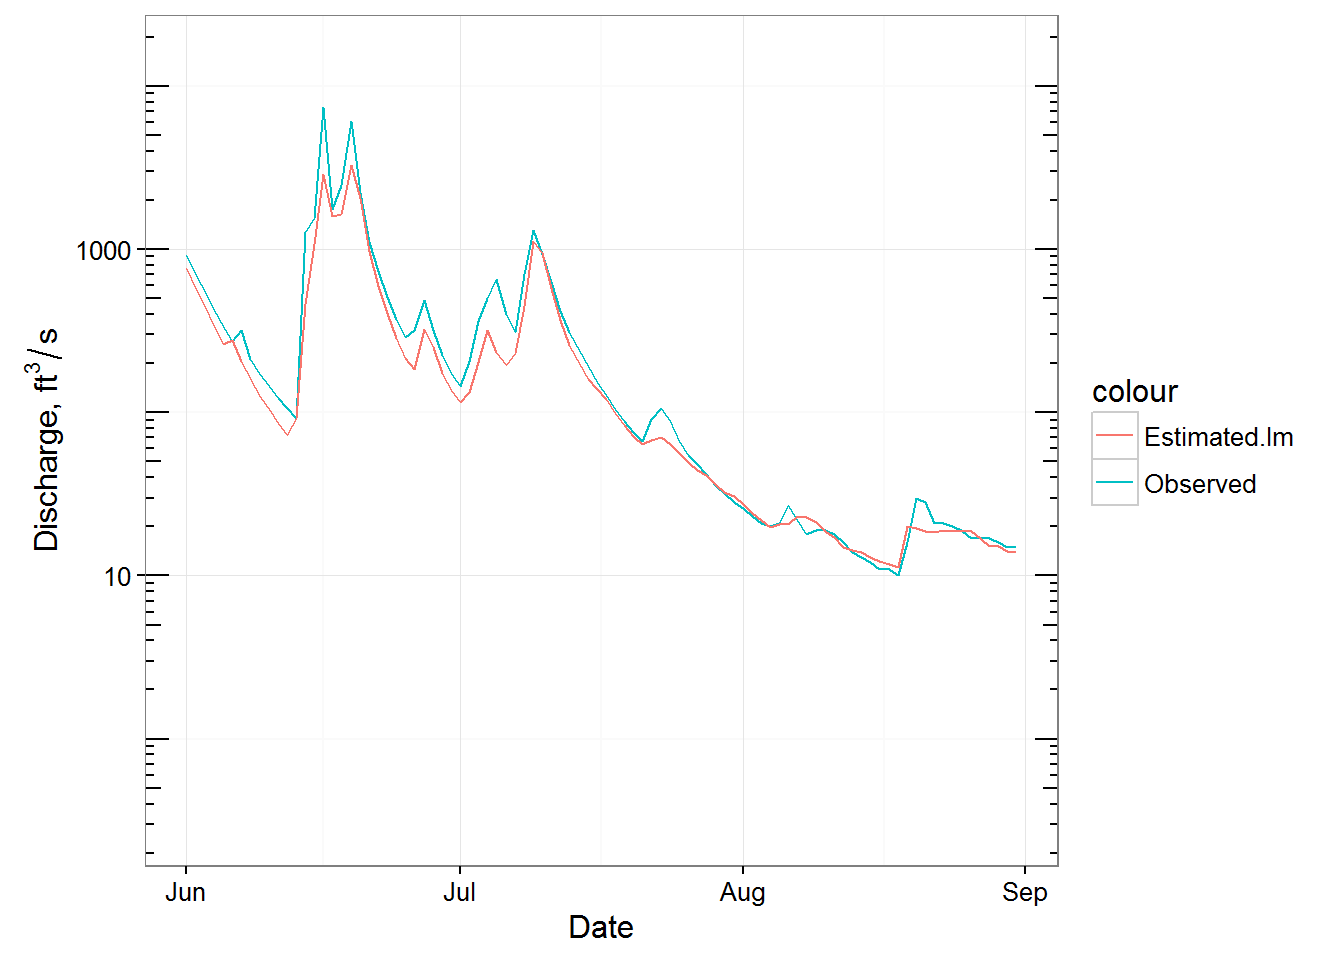
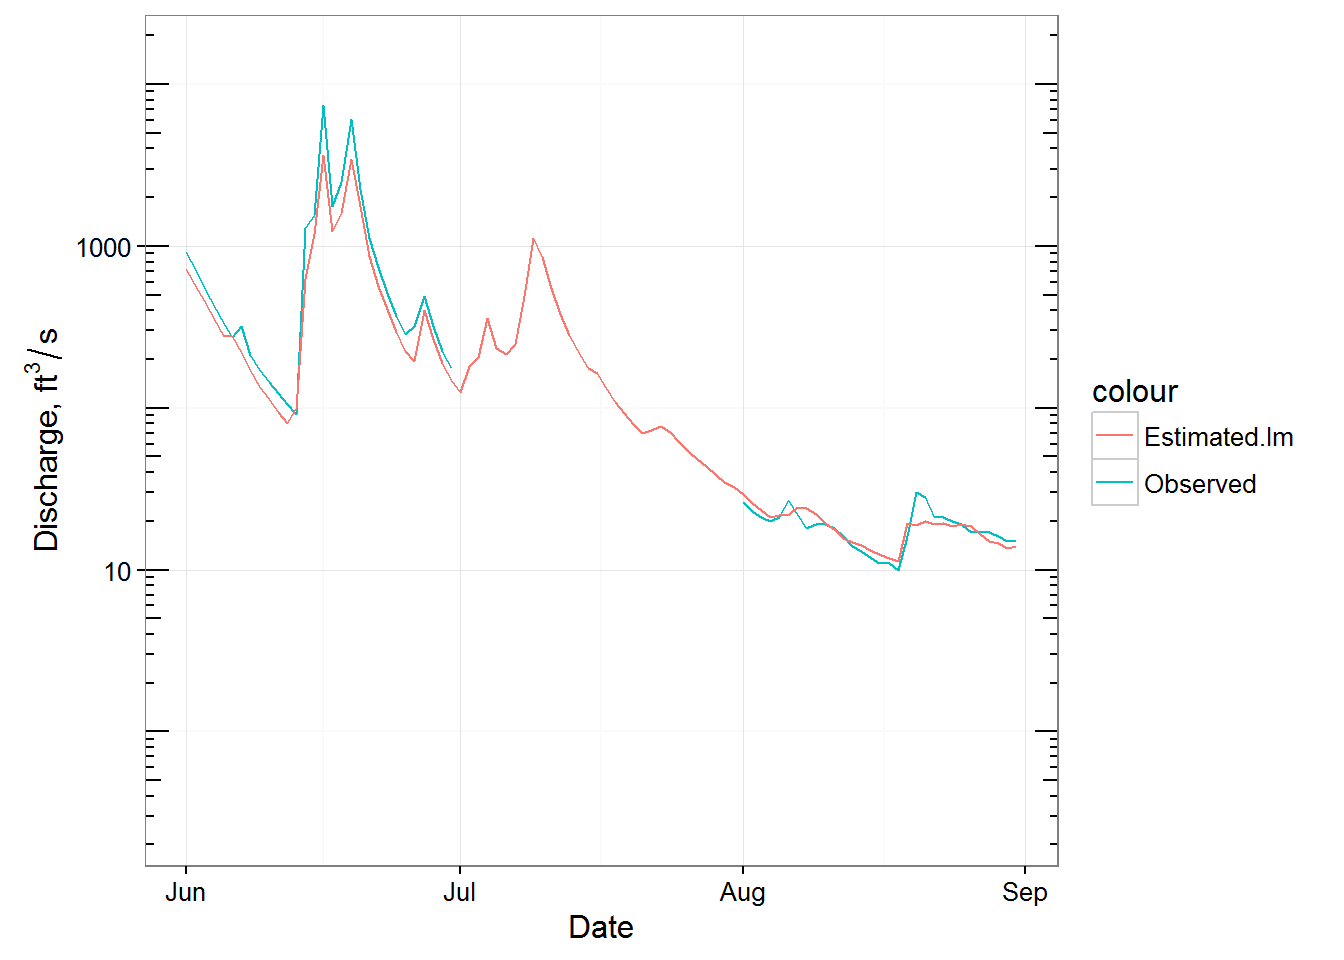
Easy clean-up

diff --git a/content/peakFlow.md b/content/peakFlow.md
@@ -301,19 +301,20 @@ DatesVec <- dataAllDVwide$Date
 
 library(smwrStats)
 candidateVars <- as.matrix(select(dataAllDVwide, -agency_cd, -Date, -Flow_07055680))
+Flow_07055680 <- dataAllDVwide$Flow_07055680
 bestEstLM <- allReg(x = candidateVars, 
-                    y = dataAllDVwide$Flow_07055680, 
+                    y = Flow_07055680, 
                     nmax = 2, nbst = 3, na.rm.x = TRUE)
 ```
 
-| model.formula                                                  |  stderr|    R2|       Cp|      press|
-|:---------------------------------------------------------------|-------:|-----:|--------:|----------:|
-| dataAllDVwide$Flow\_07055680 ~ Flow\_07055660                  |   239.8|  89.9|   5875.7|  182925879|
-| dataAllDVwide$Flow\_07055680 ~ Flow\_07055646                  |   307.6|  83.4|  11614.9|  300912875|
-| dataAllDVwide$Flow\_07055680 ~ Flow\_07056000                  |   319.9|  82.1|  12816.7|  351837295|
-| dataAllDVwide$Flow\_07055680 ~ Flow\_07055660 + Flow\_07056000 |   147.4|  96.2|    338.1|   76013799|
-| dataAllDVwide$Flow\_07055680 ~ Flow\_07055660 + Flow\_07056700 |   162.9|  95.4|   1080.7|   87505464|
-| dataAllDVwide$Flow\_07055680 ~ Flow\_07055646 + Flow\_07056000 |   203.8|  92.7|   3404.7|  148915176|
+| model.formula                                    |  stderr|    R2|       Cp|      press|
+|:-------------------------------------------------|-------:|-----:|--------:|----------:|
+| Flow\_07055680 ~ Flow\_07055660                  |   239.8|  89.9|   5877.6|  182925698|
+| Flow\_07055680 ~ Flow\_07055646                  |   307.5|  83.4|  11618.7|  300913171|
+| Flow\_07055680 ~ Flow\_07056000                  |   319.9|  82.1|  12820.9|  351836293|
+| Flow\_07055680 ~ Flow\_07055660 + Flow\_07056000 |   147.4|  96.2|    338.2|   76013602|
+| Flow\_07055680 ~ Flow\_07055660 + Flow\_07056700 |   162.8|  95.4|   1081.0|   87505474|
+| Flow\_07055680 ~ Flow\_07055646 + Flow\_07056000 |   203.8|  92.7|   3405.8|  148914484|
 
 ``` r
 #how does that compare to log10 transforms, but first deal with 0's
@@ -322,47 +323,47 @@ bestEstLM <- allReg(x = candidateVars,
 dataAllDVwide$Flow_07055660[dataAllDVwide$Flow_07055660 == 0] <- NA
 candidateVars <- as.matrix(select(dataAllDVwide, -agency_cd, -Date, -Flow_07055680))
 bestEstLMl10 <- allReg(x = log10(candidateVars), 
-                       y = log10(dataAllDVwide$Flow_07055680), 
+                       y = log10(Flow_07055680), 
                        nmax = 2, nbst = 3, na.rm.x = TRUE)
 ```
 
-| model.formula                                                         |  stderr|    R2|      Cp|  press|
-|:----------------------------------------------------------------------|-------:|-----:|-------:|------:|
-| log10(dataAllDVwide$Flow\_07055680) ~ Flow\_07055660                  |     0.2|  93.4|  2366.4|  118.3|
-| log10(dataAllDVwide$Flow\_07055680) ~ Flow\_07056000                  |     0.2|  90.7|  4582.1|  166.7|
-| log10(dataAllDVwide$Flow\_07055680) ~ Flow\_07056700                  |     0.3|  88.8|  6144.1|  201.1|
-| log10(dataAllDVwide$Flow\_07055680) ~ Flow\_07055660 + Flow\_07056000 |     0.2|  96.1|   190.8|   70.6|
-| log10(dataAllDVwide$Flow\_07055680) ~ Flow\_07055660 + Flow\_07056700 |     0.2|  96.0|   223.4|   71.3|
-| log10(dataAllDVwide$Flow\_07055680) ~ Flow\_07055646 + Flow\_07055660 |     0.2|  94.4|  1574.7|  101.1|
+| model.formula                                           |  stderr|    R2|      Cp|  press|
+|:--------------------------------------------------------|-------:|-----:|-------:|------:|
+| log10(Flow\_07055680) ~ Flow\_07055660                  |     0.2|  93.4|  2366.0|  118.3|
+| log10(Flow\_07055680) ~ Flow\_07056000                  |     0.2|  90.7|  4585.0|  166.8|
+| log10(Flow\_07055680) ~ Flow\_07056700                  |     0.3|  88.8|  6146.5|  201.1|
+| log10(Flow\_07055680) ~ Flow\_07055660 + Flow\_07056000 |     0.2|  96.1|   190.8|   70.6|
+| log10(Flow\_07055680) ~ Flow\_07055660 + Flow\_07056700 |     0.2|  96.0|   223.2|   71.3|
+| log10(Flow\_07055680) ~ Flow\_07055646 + Flow\_07055660 |     0.2|  94.4|  1574.7|  101.2|
 
 ``` r
 #adj R-squared doesn't change much, Cp is reduced with the log transforms, so stick with that and create the regression
-lm5680 <- lm(log10(Flow_07055680) ~ log10(Flow_07055660) + log10(Flow_07056700), 
+lm5680 <- lm(log10(Flow_07055680) ~ log10(Flow_07055660) + log10(Flow_07056000), 
              data = dataAllDVwide)
 summary(lm5680)
 ```
 
     ## 
     ## Call:
-    ## lm(formula = log10(Flow_07055680) ~ log10(Flow_07055660) + log10(Flow_07056700), 
+    ## lm(formula = log10(Flow_07055680) ~ log10(Flow_07055660) + log10(Flow_07056000), 
     ##     data = dataAllDVwide)
     ## 
     ## Residuals:
     ##      Min       1Q   Median       3Q      Max 
-    ## -0.81359 -0.06011 -0.00047  0.06412  0.91052 
+    ## -0.71684 -0.06800  0.00101  0.07017  0.86477 
     ## 
     ## Coefficients:
     ##                       Estimate Std. Error t value Pr(>|t|)    
-    ## (Intercept)          -0.363497   0.020310  -17.90   <2e-16 ***
-    ## log10(Flow_07055660)  0.539955   0.007268   74.29   <2e-16 ***
-    ## log10(Flow_07056700)  0.492316   0.011011   44.71   <2e-16 ***
+    ## (Intercept)          -0.236822   0.017400  -13.61   <2e-16 ***
+    ## log10(Flow_07055660)  0.506145   0.007868   64.33   <2e-16 ***
+    ## log10(Flow_07056000)  0.488242   0.010784   45.27   <2e-16 ***
     ## ---
     ## Signif. codes:  0 '***' 0.001 '**' 0.01 '*' 0.05 '.' 0.1 ' ' 1
     ## 
-    ## Residual standard error: 0.1534 on 3017 degrees of freedom
+    ## Residual standard error: 0.1526 on 3018 degrees of freedom
     ##   (41 observations deleted due to missingness)
-    ## Multiple R-squared:  0.9603, Adjusted R-squared:  0.9602 
-    ## F-statistic: 3.646e+04 on 2 and 3017 DF,  p-value: < 2.2e-16
+    ## Multiple R-squared:  0.9607, Adjusted R-squared:  0.9607 
+    ## F-statistic: 3.687e+04 on 2 and 3018 DF,  p-value: < 2.2e-16
 
 ``` r
 #use the regression to predict some new DVs for site 07055680
@@ -370,13 +371,13 @@ pred5680 <- 10^predict(lm5680, dataAllDVwide)
 
 #create a new data frame of the observed and estimated data
 comp5680 <- data.frame(Date = DatesVec, 
-                       Observed = datAllDVs$Flow[datAllDVs$site_no == "07055680"], 
+                       Observed = Flow_07055680, 
                        Estimated.lm = pred5680)
 
 #look at the data
-pLmEst <- ggplot() +
-  geom_line(data = comp5680, aes(x = Date, y = Observed, color = "Observed")) +
-  geom_line(data = comp5680, aes(x = Date, y = Estimated.lm, color = "Estimated.lm")) +
+pLmEst <- ggplot(data = comp5680, aes(x = Date)) +
+  geom_line(aes(y = Observed, color = "Observed")) +
+  geom_line(aes(y = Estimated.lm, color = "Estimated.lm")) +
   scale_y_log10() +
   annotation_logticks(sides = "rl") +
   labs(x = "Date", y = expression(paste(Discharge, ", ", ft^{3}/s))) +
@@ -409,11 +410,11 @@ m2obc5680 <- move.2(formula = Flow_07055680 ~ Flow_07055660,
 comp5680$Estimated.m2obc <- predict(m2obc5680, dataAllDVwide)
 
 #look at the data
-pLmEst <- ggplot() +
-  geom_line(data = comp5680, aes(x = Date, y = Observed, color = "Observed")) +
-  geom_line(data = comp5680, aes(x = Date, y = Estimated.lm, color = "Estimated.lm")) +
-  geom_line(data = comp5680, aes(x = Date, y = Estimated.m2lc, color = "Estimated.m2lc")) +
-  geom_line(data = comp5680, aes(x = Date, y = Estimated.m2obc, color = "Estimated.m2obc")) +
+pLmEst <- ggplot(data = comp5680, aes(x = Date)) +
+  geom_line(aes(y = Observed, color = "Observed")) +
+  geom_line(aes(y = Estimated.lm, color = "Estimated.lm")) +
+  geom_line(aes(y = Estimated.m2lc, color = "Estimated.m2lc")) +
+  geom_line(aes(y = Estimated.m2obc, color = "Estimated.m2obc")) +
   scale_y_log10() +
   annotation_logticks(sides = "rl") +
   labs(x = "Date", y = expression(paste(Discharge, ", ", ft^{3}/s))) +
@@ -440,18 +441,20 @@ adjResid <- function(x, y, dates) {
 }
 
 #get a subset of the data to "smooth" that starts one day before and ends one day after the missing period
-forSmooth <- comp5680[which(comp5680$Date == "2015-06-30"):which(comp5680$Date == "2015-08-01"),]
+forSmooth <- filter(comp5680, Date >= as.Date("2015-06-30") & Date <= as.Date("2015-08-01"))
 
 #apply the function to the data
-forSmooth$Smoothed.lm <- adjResid(x = forSmooth$Estimated.lm, y = forSmooth$Observed, dates = forSmooth$Date)
+forSmooth$Smoothed.lm <- adjResid(x = forSmooth$Estimated.lm, 
+                                  y = forSmooth$Observed, 
+                                  dates = forSmooth$Date)
 
 #now lets look at the data
-pLmSmooth <- ggplot() +
-  geom_line(data = forSmooth, aes(x = Date, y = Observed, color = "Observed")) +
-  geom_line(data = forSmooth, aes(x = Date, y = Estimated.lm, color = "Estimated.lm")) +
-  geom_line(data = forSmooth, aes(x = Date, y = Estimated.m2lc, color = "Estimated.m2lc")) +
-  geom_line(data = forSmooth, aes(x = Date, y = Estimated.m2obc, color = "Estimated.m2obc")) +
-  geom_line(data = forSmooth, aes(x = Date, y = Smoothed.lm, color = "Smoothed.lm")) +
+pLmSmooth <- ggplot(data = forSmooth, aes(x = Date)) +
+  geom_line(aes(y = Observed, color = "Observed")) +
+  geom_line(aes(y = Estimated.lm, color = "Estimated.lm")) +
+  geom_line(aes(y = Estimated.m2lc, color = "Estimated.m2lc")) +
+  geom_line(aes(y = Estimated.m2obc, color = "Estimated.m2obc")) +
+  geom_line(aes(y = Smoothed.lm, color = "Smoothed.lm")) +
   scale_y_log10() +
   annotation_logticks(sides = "rl") +
   labs(x = "Date", y = expression(paste(Discharge, ", ", ft^{3}/s))) +
